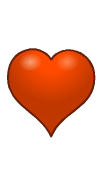
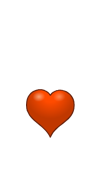
Added Heart, key, life counter, immortal procedure.

Changed region(s): [[0.0594, 0.2632, 0.9505, 0.8187]]

diff --git a/public_html/js/app.js b/public_html/js/app.js
@@ -217,13 +217,12 @@ Enemy.prototype.update = function(dt) {
     this.location();
     this.picture();
     this.move(dt);
-
-
-
 };
 
-Enemy.prototype.render = function() {
-    ctx.drawImage(Resources.get(this.sprite), this.x, this.y);
+Enemy.prototype.render = function(now) {
+ctx.drawImage(Resources.get(this.sprite), this.x, this.y);
+
+
 };
 
 var playerStatus = "notMoving";
@@ -237,19 +236,15 @@ var Player = function() {
     this.location = "block1";
     this.width =20;
     this.height =40;
+    this.lifeCount = 0;
+    this.keyStatus = 0;
+    this.immortal = 0;
 };
 
-
 Player.prototype.update = function(dt) {
-
-
     this.move(dt);
     this.checkLocation();
 };
-
-
-
-
 
 Player.prototype.move = function(dt) {
 
@@ -282,13 +277,20 @@ Player.prototype.move = function(dt) {
 
 
 Player.prototype.reset = function() {
+    if (this.lifeCount === 0){
     this.x = 503;
     this.y = 460;
+    keyBlock18.status = "onground";}
+    else if(this.lifeCount > 0) {
+        this.immortal = (Date.now()/1000) +2;
+        this.lifeCount = this.lifeCount-1;
+
+    }
 };
 
 
-Player.prototype.render = function() {
-    ctx.drawImage(Resources.get(this.sprite), this.x, this.y);
+Player.prototype.render = function(now) {
+   ctx.drawImage(Resources.get(this.sprite), this.x, this.y);
 };
 
 Player.prototype.checkLocation = function() {
@@ -354,14 +356,95 @@ document.addEventListener('keyup', function(e) {
 
 
 
+var Heart = function(x,y) {
+    this.x = x;
+    this.y = y;
+    this.sprite =  'images/Heart.png';
+    this.width =40;
+    this.height =40;
+    this.status ="onground";
+    this.renederStatus = "yes";
+};
+
+Heart.prototype.render = function() {
+ if(this.renederStatus === "yes") {
+    ctx.drawImage(Resources.get(this.sprite), this.x, this.y);
+}
+};
+
+Heart.prototype.update = function() {
+    this.checkStatus();
+};
+
+Heart.prototype.checkStatus = function() {
+    if (this.status === "picked" && this.renederStatus === "yes") {
+        player.lifeCount = player.lifeCount + 1;
+        this.renederStatus = "no";
+    }
+};
+
+var LifeCounter = function(x,y) {
+    this.x = x;
+    this.y = y;
+    this.sprite =  'images/Heart.png';
+    this.count = 0 + " x ";
+};
+
+LifeCounter.prototype.render = function() {
+    ctx.font = "40px Arial Black";
+    ctx.fillStyle = "white";
+    ctx.drawImage(Resources.get(this.sprite), this.x, this.y);
+    ctx.fillText(this.count,this.x -50,this.y+125);
+    ctx.strokeText(this.count,this.x -50,this.y+125);
+};
+
+LifeCounter.prototype.update = function() {
+    this.count = player.lifeCount + " x ";
+};
+
+
+var Key = function(x,y) {
+    this.x = x;
+    this.y = y;
+    this.sprite =  'images/Key.png';
+    this.width =20;
+    this.height =50;
+    this.status ="onground";
+    this.renederStatus = "yes";
+};
+
+Key.prototype.render = function() {
+    if(this.renederStatus === "yes") {
+    ctx.drawImage(Resources.get(this.sprite), this.x, this.y);}
+};
+
+Key.prototype.update = function() {
+    this.checkStatus();
+};
+
+Key.prototype.checkStatus = function() {
+    if (this.status === "picked") {
+        player.sprite = 'images/char-pink-girl-holding.png';
+        player.keyStatus = 1;
+        this.renederStatus = "no";
+    }else if (this.status === "onground") {
+        player.sprite = 'images/char-pink-girl.png';
+        player.keyStatus = 0;
+        this.renederStatus = "yes";
+    }
+};
 
 
 var emenyBlock52 = new Enemy(level2markers.block5.x1,level2markers.block2.x2-10,level2markers.block5.y1+20,level2markers.block5.y2,180);
-var emenyBlock8 = new Enemy(level2markers.block8.x1,level2markers.block9.x2,level2markers.block8.y1,level2markers.block8.y2,250);
-var emenyBlock1215 = new Enemy(level2markers.block12.x1,level2markers.block15.x2,level2markers.block13.y1+20,level2markers.block13.y2,180);
+var emenyBlock8 = new Enemy(level2markers.block8.x1,level2markers.block9.x2,level2markers.block8.y1,level2markers.block8.y2,220);
+var emenyBlock1215 = new Enemy(level2markers.block12.x1,level2markers.block15.x2,level2markers.block13.y1+20,level2markers.block13.y2,245);
 
 
 var allEnemies = [emenyBlock52,emenyBlock8,emenyBlock1215];
-
-
+var heartBlock7 = new Heart(5, 325);
+var keyBlock18 = new Key(391,250);
 var player = new Player();
+var iteams = [heartBlock7,keyBlock18];
+
+
+var lifeCounter = new LifeCounter(500,-65);

diff --git a/public_html/js/engine.js b/public_html/js/engine.js
@@ -13,7 +13,7 @@
  * the canvas' context (ctx) object globally available to make writing app.js
  * a little simpler to work with.
  */
-/* global ctx, player, allEnemies */
+/* global ctx, player, allEnemies, heartBlock7, keyBlock18, iteams, lifeCounter */
 
 
 var level2 = function () {
@@ -130,8 +130,9 @@ var Engine = (function(global) {
         /* Call our update/render functions, pass along the time delta to
          * our update function since it may be used for smooth animation.
          */
-        update(dt);
-        render();
+
+        update(dt,now);
+        render(now);
 
         /* Set our lastTime variable which is used to determine the time delta
          * for the next time this function is called.
@@ -163,9 +164,9 @@ var Engine = (function(global) {
      * functionality this way (you could just implement collision detection
      * on the entities themselves within your app.js file).
      */
-    function update(dt) {
-        updateEntities(dt);
-        checkCollisions();
+    function update(dt,now) {
+        updateEntities(dt,now);
+        checkCollisions(now);
     }
 
     /* This is called by the update function  and loops through all of the
@@ -175,15 +176,23 @@ var Engine = (function(global) {
      * the data/properties related to  the object. Do your drawing in your
      * render methods.
      */
-    function checkCollisions(){
+    function checkCollisions(now){
+        if (player.immortal < (now/1000)){
         allEnemies.forEach(function(enemy) {
-
         if (player.x < enemy.x +  enemy.width  && player.x + player.width  > enemy.x &&
 		player.y < enemy.y +  enemy.height && player.y + player.height > enemy.y) {
                    player.reset();
-                   gameStatus = "stop";
         }
         });
+    }
+        iteams.forEach(function(item) {
+
+        if (player.x < item.x +  item.width  && player.x + player.width  > item.x &&
+		player.y < item.y +  item.height && player.y + player.height > item.y) {
+                   item.status="picked";
+        }
+        });
+
 
     }
 
@@ -193,31 +202,37 @@ var Engine = (function(global) {
             enemy.update(dt);
         });
         player.update(dt);
+        heartBlock7.update();
+        keyBlock18.update();
+        lifeCounter.update();
+
     }
 
 
-    function render() {
+    function render(now) {
 
             /*Background*/
         level2();
 
 
-        renderEntities();
+        renderEntities(now);
     }
 
     /* This function is called by the render function and is called on each game
      * tick. It's purpose is to then call the render functions you have defined
      * on your enemy and player entities within app.js
      */
-    function renderEntities() {
+    function renderEntities(now) {
         /* Loop through all of the objects within the allEnemies array and call
          * the render function you have defined.
          */
         allEnemies.forEach(function(enemy) {
             enemy.render();
         });
-
-        player.render();
+        heartBlock7.render();
+        keyBlock18.render();
+        player.render(now);
+        lifeCounter.render();
     }
 
     /* This function does nothing but it could have been a good place to
@@ -247,7 +262,11 @@ var Engine = (function(global) {
         'images/Wall Block.png',
         'images/enemy-bug-left.png',
         'images/enemy-bug.png',
+        'images/Heart.png',
+        'images/Key.png',
+        'images/char-pink-girl-holding.png',
         'images/Shadow South.png'
+
     ]);
     Resources.onReady(init);
 

diff --git a/public_html/index.html b/public_html/index.html
@@ -9,7 +9,6 @@
 
     <script src="js/resources.js"></script>
     <script src="js/app.js"></script>
-
     <script src="js/engine.js"></script>
 
 </body>
